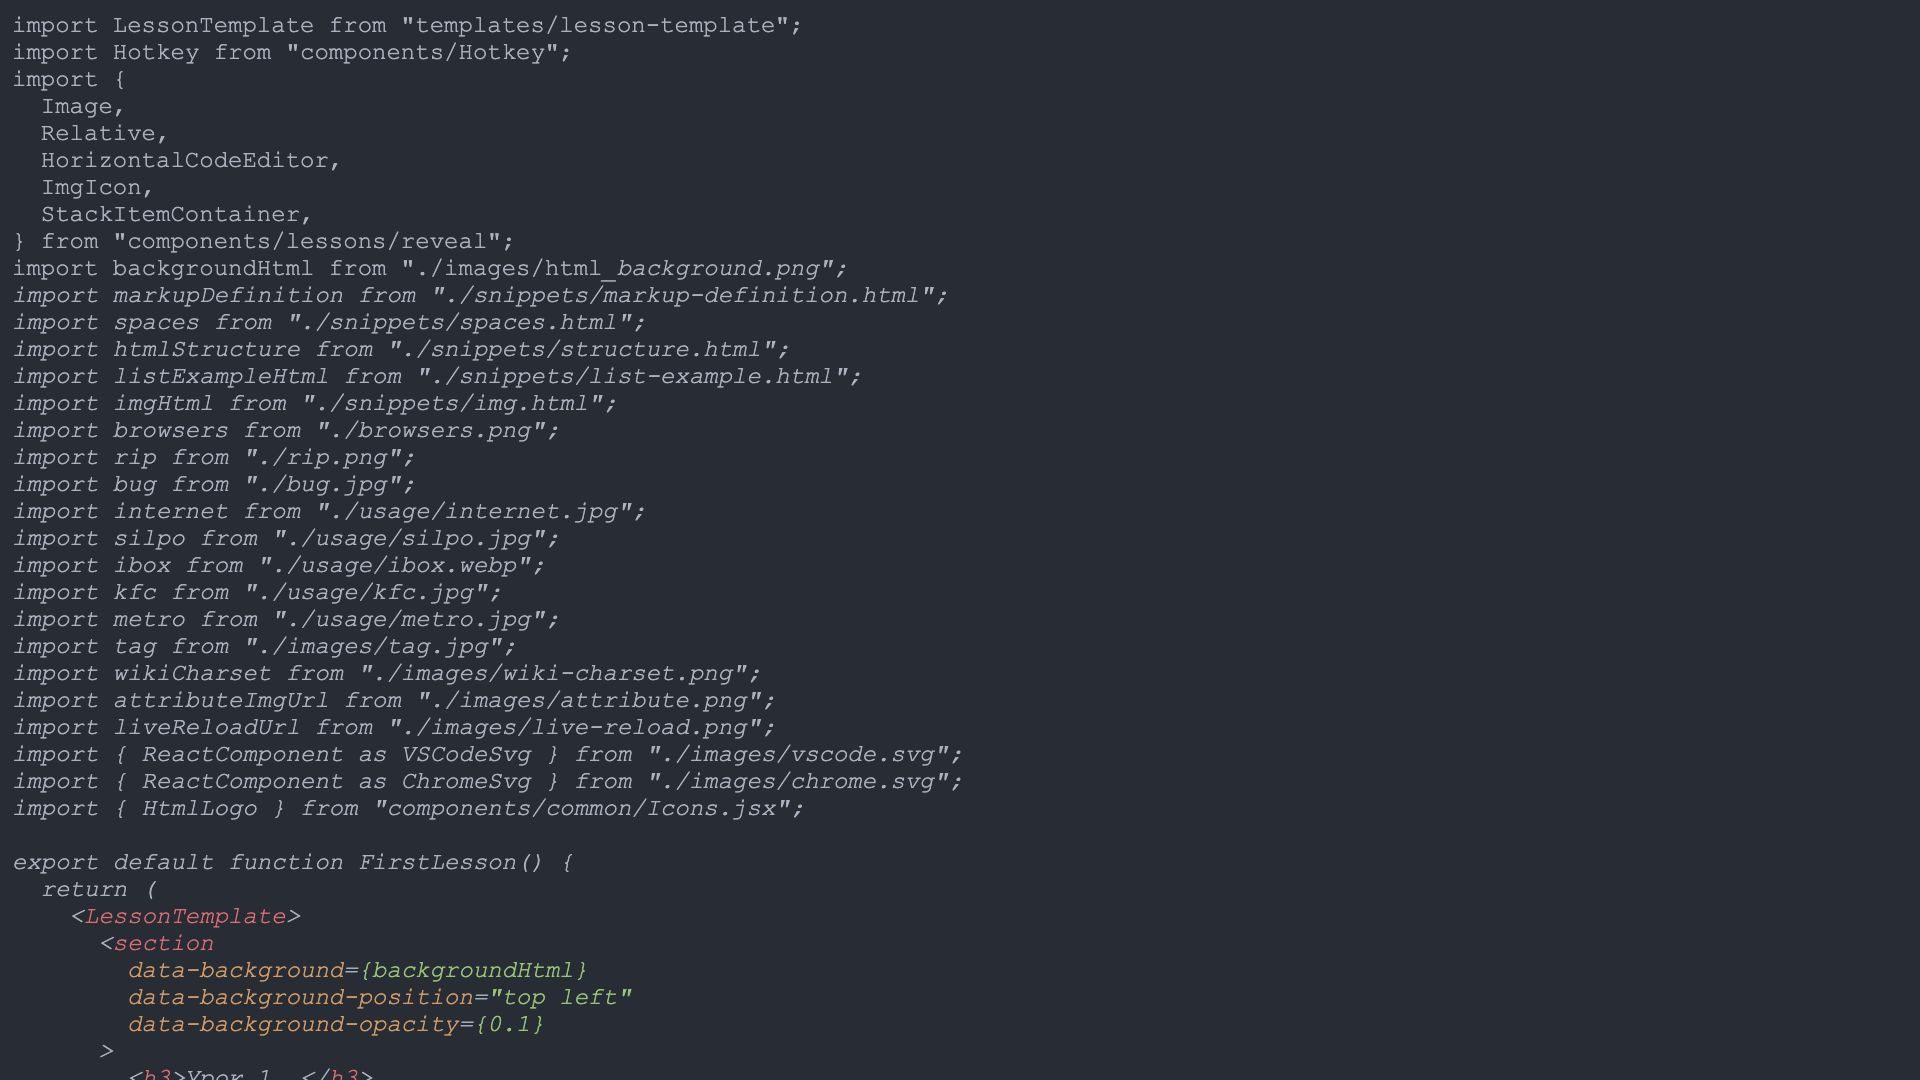
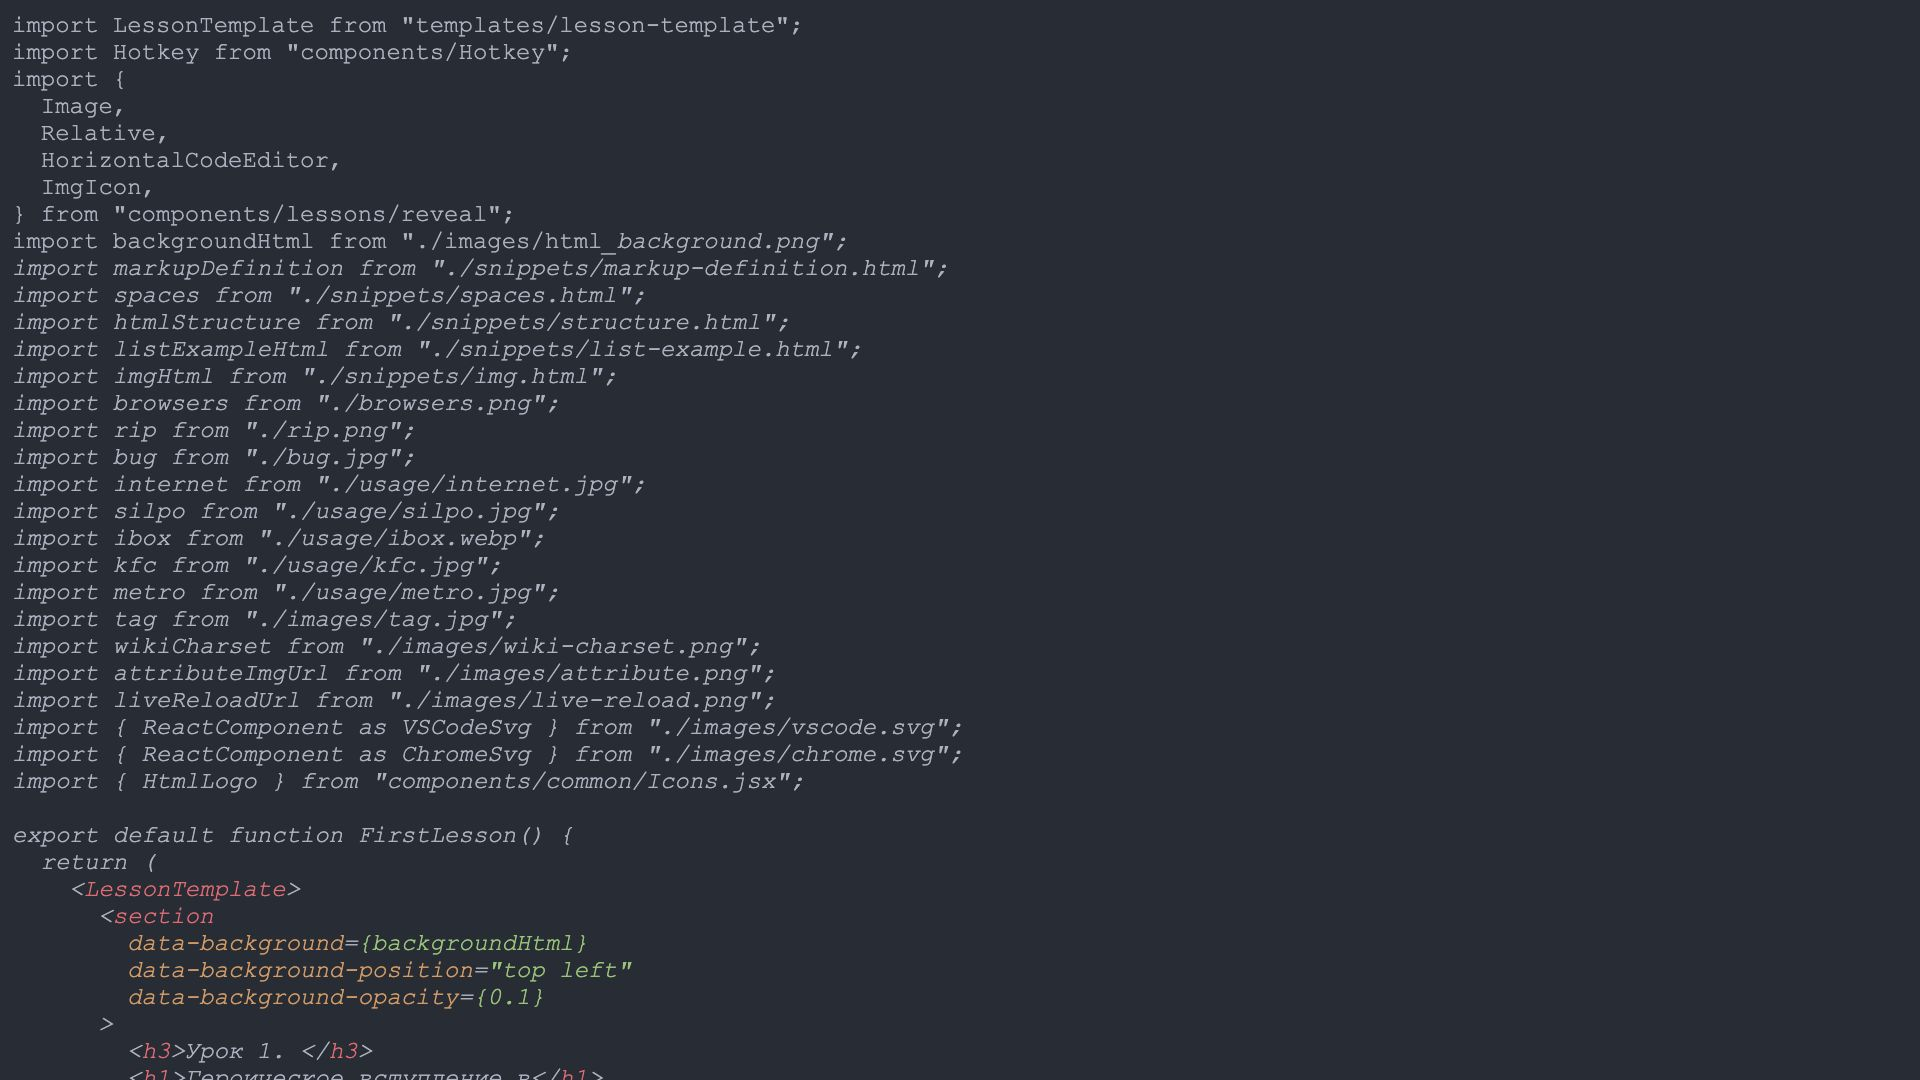
add задачки

Changed region(s): [[0.0, 0.1833, 0.5, 1.0], [0.2812, 0.9778, 0.3125, 1.0]]

diff --git a/src/components/lessons/code-editor/CodeEditor.jsx b/src/components/lessons/code-editor/CodeEditor.jsx
@@ -1,5 +1,6 @@
 import styled from "styled-components";
 import hljs from "highlight.js/lib/core";
+import { useRef, useEffect, useState } from "react";
 
 const Textarea = styled.textarea`
   position: absolute;
@@ -13,18 +14,56 @@ const Textarea = styled.textarea`
   font-family: "Consolas", monospace;
   padding: 15px 20px;
   overflow: hidden;
+  overflow-x: auto;
   outline: none;
   border: none;
   resize: none;
   caret-color: #383a42;
+  white-space: nowrap;
 `;
 
 const Container = styled.div`
   position: relative;
 `;
 
-export default function CodeEditor({ value, onChange, ...props }) {
+export default function CodeEditor({
+  value = "",
+  placeholder,
+  onChange,
+  ...props
+}) {
+  const [selected, setSelected] = useState(value.length);
   const code = hljs.highlight("xml", value).value + "\n";
+  const textareaRef = useRef();
+  const codeRef = useRef();
+
+  useEffect(() => {
+    setSelected(selected);
+  }, [value]);
+
+  useEffect(() => {
+    if (textareaRef.current) {
+      textareaRef.current.setSelectionRange(selected, selected);
+    }
+  }, [selected]);
+
+  const onTabClick = e => {
+    if (e.keyCode === 9 /* Tab */) {
+      e.preventDefault();
+      if (onChange) {
+        const start = textareaRef.current.selectionStart;
+        const end = textareaRef.current.selectionEnd;
+        // set textarea value to: text before caret + tab + text after caret
+        const newValue =
+          value.substring(0, start) + "  " + value.substring(end);
+        onChange(newValue);
+        setSelected(start + 2);
+      }
+    }
+  };
+
+  const onCodeScroll = e =>
+    codeRef.current.scrollTo(e.target.scrollLeft, e.target.scrollTop);
 
   return (
     <Container>
@@ -32,9 +71,17 @@ export default function CodeEditor({ value, onChange, ...props }) {
         <code
           data-noescape
           {...props}
+          ref={codeRef}
           dangerouslySetInnerHTML={{ __html: code }}
         ></code>
-        <Textarea value={value} onChange={e => onChange(e.target.value)} />
+        <Textarea
+          onKeyDown={onTabClick}
+          value={value}
+          onChange={e => onChange(e.target.value)}
+          ref={textareaRef}
+          onScroll={onCodeScroll}
+          placeholder={placeholder}
+        />
       </pre>
     </Container>
   );

diff --git a/src/components/lessons/reveal/HorizontalCodeEditor.jsx b/src/components/lessons/reveal/HorizontalCodeEditor.jsx
@@ -1,0 +1,27 @@
+import styled from "styled-components";
+import { useState } from "react";
+import CodeEditor from "../code-editor/CodeEditor";
+
+const EditorContainer = styled.div`
+  display: flex;
+  flex-direction: column;
+`;
+
+const ResultContainer = styled.div`
+  height: 1px;
+  flex: 1 1 auto;
+`;
+
+export default function HorizontalCodeEditor({ source, ...props }) {
+  const [code, setCode] = useState(source);
+  const resultPlaceholder = "* Результат появится тут *";
+
+  return (
+    <EditorContainer className="r-stretch">
+      <CodeEditor {...props} value={code} onChange={setCode} />
+      <ResultContainer
+        dangerouslySetInnerHTML={{ __html: code || resultPlaceholder }}
+      />
+    </EditorContainer>
+  );
+}

diff --git a/src/components/lessons/reveal/index.js b/src/components/lessons/reveal/index.js
@@ -1,6 +1,4 @@
-import { useState } from "react";
 import styled from "styled-components";
-import CodeEditor from "../code-editor/CodeEditor";
 
 export const Image = styled.img`
   width: auto;
@@ -21,13 +19,4 @@ export const ImgIcon = styled.img`
   margin: 0 5px !important;
 `;
 
-export const HorizontalCodeEditor = ({ source }) => {
-  const [code, setCode] = useState(source);
-
-  return (
-    <>
-      <CodeEditor value={code} onChange={setCode} />
-      <p dangerouslySetInnerHTML={{ __html: code }} />
-    </>
-  );
-};
+export { default as HorizontalCodeEditor } from "./HorizontalCodeEditor";

diff --git a/src/components/lessons/mdx/index.js b/src/components/lessons/mdx/index.js
@@ -1,5 +1,6 @@
 import copyWithout from "../../../lib/utils/object";
 import MdxWrapper from "./MdxWrapper";
+import { HorizontalCodeEditor } from "components/lessons/reveal";
 
 const HIGHLIGHT_REGEX = /^\[(.+)\]$/;
 
@@ -20,4 +21,5 @@ export default {
   wrapper: MdxWrapper,
   code: Code,
   a: A,
+  HorizontalCodeEditor,
 };

diff --git a/src/lib/reveal-theme/source/hipsta.scss b/src/lib/reveal-theme/source/hipsta.scss
@@ -11,6 +11,9 @@
 @import "./fonts/helveticaneue/index.css";
 @import "./fonts/consolas/index.css";
 
+// Some additional classes from me
+@import "../my-classes.scss";
+
 
 // Include theme-specific fonts
 

diff --git a/src/lib/reveal-theme/my-classes.scss b/src/lib/reveal-theme/my-classes.scss
@@ -1,0 +1,11 @@
+.reveal .full-screen {
+  min-width: 100%;
+
+  .gatsby-resp-image-wrapper {
+    max-width: 80%!important;
+  }
+}
+
+.reveal .r-stack>* {
+  max-height: 60vh;
+}
